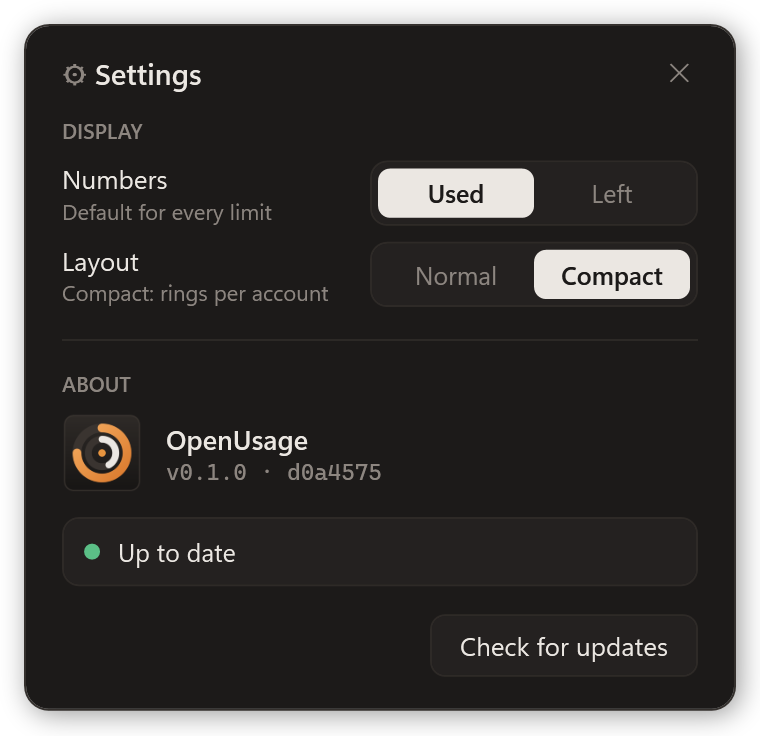
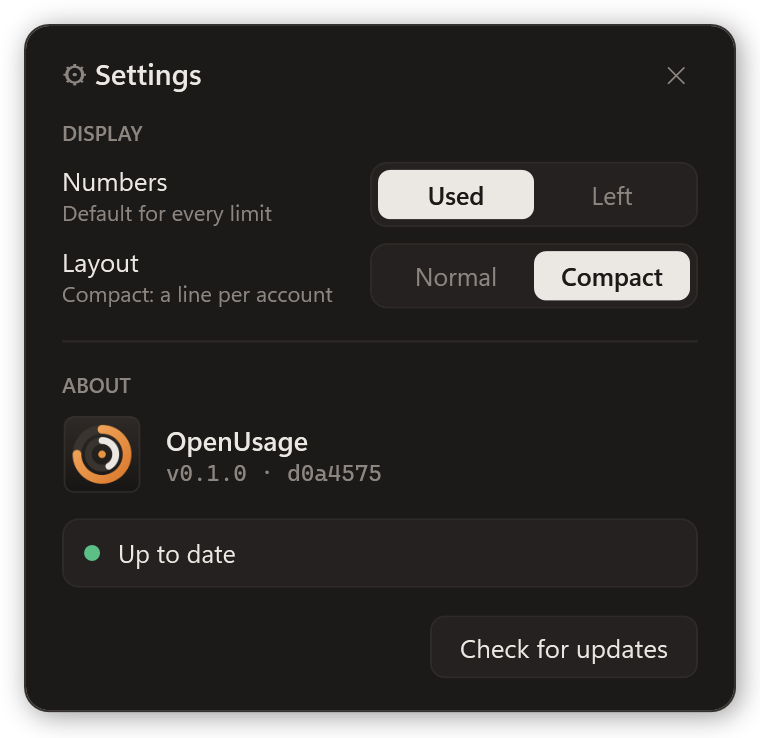
Corrige o ✕ das janelas de opções e de adicionar conta
O ✕ era um texto dentro da barra de título arrastável: o DragMove
engolia o clique e a janela de opções não fechava. Agora é um botão,
que trata o próprio clique. Legenda do modo compacto atualizada.

diff --git a/widget-mac/OpenUsage.swift b/widget-mac/OpenUsage.swift
@@ -687,7 +687,7 @@ struct SettingsView: View {
           options: [SegOption(value: "used", label: "Used"), SegOption(value: "remaining", label: "Left")],
           value: m.display, pick: { m.setDisplay($0) })
       }
-      option("Layout", "Compact: rings per account") {
+      option("Layout", "Compact: a line per account") {
         Segmented(
           options: [SegOption(value: "normal", label: "Normal"), SegOption(value: "compact", label: "Compact")],
           value: m.layout, pick: { m.setLayout($0) })
